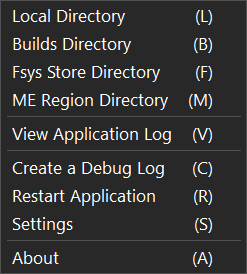
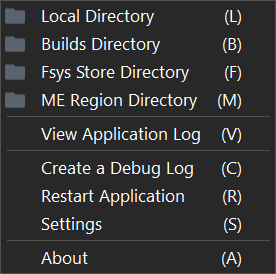
Minor UI changes.

diff --git a/mefit/WinForms/mainWindow.Designer.cs b/mefit/WinForms/mainWindow.Designer.cs
@@ -1398,70 +1398,73 @@ namespace Mac_EFI_Toolkit
             this.toolStripSeparator1,
             this.aboutToolStripMenuItem});
             this.cmsMainMenu.Name = "cmsMainMenu";
-            this.cmsMainMenu.ShowImageMargin = false;
-            this.cmsMainMenu.Size = new System.Drawing.Size(247, 274);
+            this.cmsMainMenu.Size = new System.Drawing.Size(276, 274);
             // 
             // openLocalFolderToolStripMenuItem
             // 
             this.openLocalFolderToolStripMenuItem.ForeColor = System.Drawing.Color.White;
+            this.openLocalFolderToolStripMenuItem.Image = global::Mac_EFI_Toolkit.Properties.Resources.folder;
             this.openLocalFolderToolStripMenuItem.Name = "openLocalFolderToolStripMenuItem";
             this.openLocalFolderToolStripMenuItem.ShortcutKeyDisplayString = "(L)";
-            this.openLocalFolderToolStripMenuItem.Size = new System.Drawing.Size(246, 28);
+            this.openLocalFolderToolStripMenuItem.Size = new System.Drawing.Size(275, 28);
             this.openLocalFolderToolStripMenuItem.Text = "Local Directory";
             this.openLocalFolderToolStripMenuItem.Click += new System.EventHandler(this.openLocalFolderToolStripMenuItem_Click);
             // 
             // openBuildsDirectoryToolStripMenuItem
             // 
             this.openBuildsDirectoryToolStripMenuItem.ForeColor = System.Drawing.Color.White;
+            this.openBuildsDirectoryToolStripMenuItem.Image = global::Mac_EFI_Toolkit.Properties.Resources.folder;
             this.openBuildsDirectoryToolStripMenuItem.Name = "openBuildsDirectoryToolStripMenuItem";
             this.openBuildsDirectoryToolStripMenuItem.ShortcutKeyDisplayString = "(B)";
-            this.openBuildsDirectoryToolStripMenuItem.Size = new System.Drawing.Size(246, 28);
+            this.openBuildsDirectoryToolStripMenuItem.Size = new System.Drawing.Size(275, 28);
             this.openBuildsDirectoryToolStripMenuItem.Text = "Builds Directory";
             this.openBuildsDirectoryToolStripMenuItem.Click += new System.EventHandler(this.openBuildsDirectoryToolStripMenuItem_Click);
             // 
             // openFsysStoresDirectoryToolStripMenuItem
             // 
             this.openFsysStoresDirectoryToolStripMenuItem.ForeColor = System.Drawing.Color.White;
+            this.openFsysStoresDirectoryToolStripMenuItem.Image = global::Mac_EFI_Toolkit.Properties.Resources.folder;
             this.openFsysStoresDirectoryToolStripMenuItem.Name = "openFsysStoresDirectoryToolStripMenuItem";
             this.openFsysStoresDirectoryToolStripMenuItem.ShortcutKeyDisplayString = "(F)";
-            this.openFsysStoresDirectoryToolStripMenuItem.Size = new System.Drawing.Size(246, 28);
+            this.openFsysStoresDirectoryToolStripMenuItem.Size = new System.Drawing.Size(275, 28);
             this.openFsysStoresDirectoryToolStripMenuItem.Text = "Fsys Store Directory";
             this.openFsysStoresDirectoryToolStripMenuItem.Click += new System.EventHandler(this.openFsysDirectoryToolStripMenuItem_Click);
             // 
             // openMeRegionDirectoryToolStripMenuItem
             // 
             this.openMeRegionDirectoryToolStripMenuItem.ForeColor = System.Drawing.Color.White;
+            this.openMeRegionDirectoryToolStripMenuItem.Image = global::Mac_EFI_Toolkit.Properties.Resources.folder;
             this.openMeRegionDirectoryToolStripMenuItem.Name = "openMeRegionDirectoryToolStripMenuItem";
             this.openMeRegionDirectoryToolStripMenuItem.ShortcutKeyDisplayString = "(M)";
-            this.openMeRegionDirectoryToolStripMenuItem.Size = new System.Drawing.Size(246, 28);
+            this.openMeRegionDirectoryToolStripMenuItem.Size = new System.Drawing.Size(275, 28);
             this.openMeRegionDirectoryToolStripMenuItem.Text = "ME Region Directory";
             this.openMeRegionDirectoryToolStripMenuItem.Click += new System.EventHandler(this.openMeRegionDirectoryToolStripMenuItem_Click);
             // 
             // toolStripSeparator4
             // 
             this.toolStripSeparator4.Name = "toolStripSeparator4";
-            this.toolStripSeparator4.Size = new System.Drawing.Size(243, 6);
+            this.toolStripSeparator4.Size = new System.Drawing.Size(272, 6);
             // 
             // viewLogToolStripMenuItem
             // 
             this.viewLogToolStripMenuItem.ForeColor = System.Drawing.Color.White;
             this.viewLogToolStripMenuItem.Name = "viewLogToolStripMenuItem";
             this.viewLogToolStripMenuItem.ShortcutKeyDisplayString = "(V)";
-            this.viewLogToolStripMenuItem.Size = new System.Drawing.Size(246, 28);
+            this.viewLogToolStripMenuItem.Size = new System.Drawing.Size(275, 28);
             this.viewLogToolStripMenuItem.Text = "View Application Log";
             this.viewLogToolStripMenuItem.Click += new System.EventHandler(this.viewLogToolStripMenuItem_Click);
             // 
             // toolStripSeparator2
             // 
             this.toolStripSeparator2.Name = "toolStripSeparator2";
-            this.toolStripSeparator2.Size = new System.Drawing.Size(243, 6);
+            this.toolStripSeparator2.Size = new System.Drawing.Size(272, 6);
             // 
             // createADebugLogToolStripMenuItem
             // 
             this.createADebugLogToolStripMenuItem.ForeColor = System.Drawing.Color.White;
             this.createADebugLogToolStripMenuItem.Name = "createADebugLogToolStripMenuItem";
             this.createADebugLogToolStripMenuItem.ShortcutKeyDisplayString = "(C)";
-            this.createADebugLogToolStripMenuItem.Size = new System.Drawing.Size(246, 28);
+            this.createADebugLogToolStripMenuItem.Size = new System.Drawing.Size(275, 28);
             this.createADebugLogToolStripMenuItem.Text = "Create a Debug Log";
             this.createADebugLogToolStripMenuItem.Click += new System.EventHandler(this.createADebugLogToolStripMenuItem_Click);
             // 
@@ -1470,7 +1473,7 @@ namespace Mac_EFI_Toolkit
             this.restartApplicationToolStripMenuItem.ForeColor = System.Drawing.Color.White;
             this.restartApplicationToolStripMenuItem.Name = "restartApplicationToolStripMenuItem";
             this.restartApplicationToolStripMenuItem.ShortcutKeyDisplayString = "(R)";
-            this.restartApplicationToolStripMenuItem.Size = new System.Drawing.Size(246, 28);
+            this.restartApplicationToolStripMenuItem.Size = new System.Drawing.Size(275, 28);
             this.restartApplicationToolStripMenuItem.Text = "Restart Application";
             this.restartApplicationToolStripMenuItem.Click += new System.EventHandler(this.restartApplicationToolStripMenuItem_Click);
             // 
@@ -1479,14 +1482,14 @@ namespace Mac_EFI_Toolkit
             this.settingsToolStripMenuItem.ForeColor = System.Drawing.Color.White;
             this.settingsToolStripMenuItem.Name = "settingsToolStripMenuItem";
             this.settingsToolStripMenuItem.ShortcutKeyDisplayString = "(S)";
-            this.settingsToolStripMenuItem.Size = new System.Drawing.Size(246, 28);
+            this.settingsToolStripMenuItem.Size = new System.Drawing.Size(275, 28);
             this.settingsToolStripMenuItem.Text = "Settings";
             this.settingsToolStripMenuItem.Click += new System.EventHandler(this.settingsToolStripMenuItem_Click);
             // 
             // toolStripSeparator1
             // 
             this.toolStripSeparator1.Name = "toolStripSeparator1";
-            this.toolStripSeparator1.Size = new System.Drawing.Size(243, 6);
+            this.toolStripSeparator1.Size = new System.Drawing.Size(272, 6);
             // 
             // aboutToolStripMenuItem
             // 
@@ -1495,7 +1498,7 @@ namespace Mac_EFI_Toolkit
             this.aboutToolStripMenuItem.ForeColor = System.Drawing.Color.White;
             this.aboutToolStripMenuItem.Name = "aboutToolStripMenuItem";
             this.aboutToolStripMenuItem.ShortcutKeyDisplayString = "(A)";
-            this.aboutToolStripMenuItem.Size = new System.Drawing.Size(246, 28);
+            this.aboutToolStripMenuItem.Size = new System.Drawing.Size(275, 28);
             this.aboutToolStripMenuItem.Text = "About";
             this.aboutToolStripMenuItem.Click += new System.EventHandler(this.aboutToolStripMenuItem_Click);
             // 
@@ -1575,7 +1578,7 @@ namespace Mac_EFI_Toolkit
             // 
             this.sizeToolStripMenuItem.ForeColor = System.Drawing.Color.White;
             this.sizeToolStripMenuItem.Name = "sizeToolStripMenuItem";
-            this.sizeToolStripMenuItem.Size = new System.Drawing.Size(163, 28);
+            this.sizeToolStripMenuItem.Size = new System.Drawing.Size(185, 28);
             this.sizeToolStripMenuItem.Text = "Size";
             this.sizeToolStripMenuItem.Click += new System.EventHandler(this.sizeToolStripMenuItem_Click);
             // 
@@ -1583,7 +1586,7 @@ namespace Mac_EFI_Toolkit
             // 
             this.crc32ToolStripMenuItem.ForeColor = System.Drawing.Color.White;
             this.crc32ToolStripMenuItem.Name = "crc32ToolStripMenuItem";
-            this.crc32ToolStripMenuItem.Size = new System.Drawing.Size(163, 28);
+            this.crc32ToolStripMenuItem.Size = new System.Drawing.Size(185, 28);
             this.crc32ToolStripMenuItem.Text = "CRC32";
             this.crc32ToolStripMenuItem.Click += new System.EventHandler(this.crc32ToolStripMenuItem_Click);
             // 
@@ -1591,7 +1594,7 @@ namespace Mac_EFI_Toolkit
             // 
             this.createdDateToolStripMenuItem.ForeColor = System.Drawing.Color.White;
             this.createdDateToolStripMenuItem.Name = "createdDateToolStripMenuItem";
-            this.createdDateToolStripMenuItem.Size = new System.Drawing.Size(163, 28);
+            this.createdDateToolStripMenuItem.Size = new System.Drawing.Size(185, 28);
             this.createdDateToolStripMenuItem.Text = "Created Date";
             this.createdDateToolStripMenuItem.Click += new System.EventHandler(this.createdDateToolStripMenuItem_Click);
             // 
@@ -1599,20 +1602,20 @@ namespace Mac_EFI_Toolkit
             // 
             this.modifiedDateToolStripMenuItem.ForeColor = System.Drawing.Color.White;
             this.modifiedDateToolStripMenuItem.Name = "modifiedDateToolStripMenuItem";
-            this.modifiedDateToolStripMenuItem.Size = new System.Drawing.Size(163, 28);
+            this.modifiedDateToolStripMenuItem.Size = new System.Drawing.Size(185, 28);
             this.modifiedDateToolStripMenuItem.Text = "Modified Date";
             this.modifiedDateToolStripMenuItem.Click += new System.EventHandler(this.modifiedDateToolStripMenuItem_Click);
             // 
             // toolStripSeparator5
             // 
             this.toolStripSeparator5.Name = "toolStripSeparator5";
-            this.toolStripSeparator5.Size = new System.Drawing.Size(160, 6);
+            this.toolStripSeparator5.Size = new System.Drawing.Size(182, 6);
             // 
             // serialToolStripMenuItem
             // 
             this.serialToolStripMenuItem.ForeColor = System.Drawing.Color.White;
             this.serialToolStripMenuItem.Name = "serialToolStripMenuItem";
-            this.serialToolStripMenuItem.Size = new System.Drawing.Size(163, 28);
+            this.serialToolStripMenuItem.Size = new System.Drawing.Size(185, 28);
             this.serialToolStripMenuItem.Text = "Serial";
             this.serialToolStripMenuItem.Click += new System.EventHandler(this.serialToolStripMenuItem_Click);
             // 
@@ -1620,7 +1623,7 @@ namespace Mac_EFI_Toolkit
             // 
             this.hwcToolStripMenuItem.ForeColor = System.Drawing.Color.White;
             this.hwcToolStripMenuItem.Name = "hwcToolStripMenuItem";
-            this.hwcToolStripMenuItem.Size = new System.Drawing.Size(163, 28);
+            this.hwcToolStripMenuItem.Size = new System.Drawing.Size(185, 28);
             this.hwcToolStripMenuItem.Text = "HWC";
             this.hwcToolStripMenuItem.Click += new System.EventHandler(this.hwcToolStripMenuItem_Click);
             // 
@@ -1628,7 +1631,7 @@ namespace Mac_EFI_Toolkit
             // 
             this.fsysCRC32ToolStripMenuItem.ForeColor = System.Drawing.Color.White;
             this.fsysCRC32ToolStripMenuItem.Name = "fsysCRC32ToolStripMenuItem";
-            this.fsysCRC32ToolStripMenuItem.Size = new System.Drawing.Size(163, 28);
+            this.fsysCRC32ToolStripMenuItem.Size = new System.Drawing.Size(185, 28);
             this.fsysCRC32ToolStripMenuItem.Text = "Fsys CRC32";
             this.fsysCRC32ToolStripMenuItem.Click += new System.EventHandler(this.fsysCRC32ToolStripMenuItem_Click);
             // 
@@ -1636,7 +1639,7 @@ namespace Mac_EFI_Toolkit
             // 
             this.efiVersionToolStripMenuItem.ForeColor = System.Drawing.Color.White;
             this.efiVersionToolStripMenuItem.Name = "efiVersionToolStripMenuItem";
-            this.efiVersionToolStripMenuItem.Size = new System.Drawing.Size(163, 28);
+            this.efiVersionToolStripMenuItem.Size = new System.Drawing.Size(185, 28);
             this.efiVersionToolStripMenuItem.Text = "EFI Version";
             this.efiVersionToolStripMenuItem.Click += new System.EventHandler(this.efiVersionToolStripMenuItem_Click);
             // 
@@ -1644,7 +1647,7 @@ namespace Mac_EFI_Toolkit
             // 
             this.fitVersionToolStripMenuItem.ForeColor = System.Drawing.Color.White;
             this.fitVersionToolStripMenuItem.Name = "fitVersionToolStripMenuItem";
-            this.fitVersionToolStripMenuItem.Size = new System.Drawing.Size(163, 28);
+            this.fitVersionToolStripMenuItem.Size = new System.Drawing.Size(185, 28);
             this.fitVersionToolStripMenuItem.Text = "FIT Version";
             this.fitVersionToolStripMenuItem.Click += new System.EventHandler(this.fitVersionToolStripMenuItem_Click);
             // 
@@ -1652,7 +1655,7 @@ namespace Mac_EFI_Toolkit
             // 
             this.meVersionToolStripMenuItem.ForeColor = System.Drawing.Color.White;
             this.meVersionToolStripMenuItem.Name = "meVersionToolStripMenuItem";
-            this.meVersionToolStripMenuItem.Size = new System.Drawing.Size(163, 28);
+            this.meVersionToolStripMenuItem.Size = new System.Drawing.Size(185, 28);
             this.meVersionToolStripMenuItem.Text = "ME Version";
             this.meVersionToolStripMenuItem.Click += new System.EventHandler(this.meVersionToolStripMenuItem_Click);
             // 
@@ -1660,7 +1663,7 @@ namespace Mac_EFI_Toolkit
             // 
             this.boardIDToolStripMenuItem.ForeColor = System.Drawing.Color.White;
             this.boardIDToolStripMenuItem.Name = "boardIDToolStripMenuItem";
-            this.boardIDToolStripMenuItem.Size = new System.Drawing.Size(163, 28);
+            this.boardIDToolStripMenuItem.Size = new System.Drawing.Size(185, 28);
             this.boardIDToolStripMenuItem.Text = "Board-ID";
             this.boardIDToolStripMenuItem.Click += new System.EventHandler(this.boardIDToolStripMenuItem_Click);
             // 
@@ -1668,7 +1671,7 @@ namespace Mac_EFI_Toolkit
             // 
             this.orderNoToolStripMenuItem.ForeColor = System.Drawing.Color.White;
             this.orderNoToolStripMenuItem.Name = "orderNoToolStripMenuItem";
-            this.orderNoToolStripMenuItem.Size = new System.Drawing.Size(163, 28);
+            this.orderNoToolStripMenuItem.Size = new System.Drawing.Size(185, 28);
             this.orderNoToolStripMenuItem.Text = "Order No";
             this.orderNoToolStripMenuItem.Click += new System.EventHandler(this.orderNoToolStripMenuItem_Click);
             // 

diff --git a/mefit/WinForms/mainWindow.cs b/mefit/WinForms/mainWindow.cs
@@ -811,9 +811,14 @@ namespace Mac_EFI_Toolkit
         {
             int fileSize = (int)FWBase.FileInfoData.FileLength;
             bool isValidSize = FileUtils.GetIsValidBinSize(fileSize);
+
             lblFileSizeBytes.Text = FileUtils.FormatFileSize(fileSize);
-            lblFileSizeBytes.ForeColor = isValidSize ? Colours.COMPLETE_GREEN : Colours.ERROR_RED;
-            lblFileSizeBytes.Text += isValidSize ? string.Empty : $" ({FileUtils.GetSizeDifference(fileSize)})";
+
+            if (!isValidSize)
+            {
+                lblFileSizeBytes.ForeColor = Colours.ERROR_RED;
+                lblFileSizeBytes.Text += isValidSize ? string.Empty : $" ({FileUtils.GetSizeDifference(fileSize)})";
+            }
         }
 
         private void UpdateFileCrc32Label()
@@ -876,15 +881,13 @@ namespace Mac_EFI_Toolkit
                     lblApfsCapable.ForeColor = Colours.ERROR_RED;
                     break;
                 case ApfsCapable.YesGuid:
-                    lblApfsCapable.Text = "Yes · DXE";
-                    lblApfsCapable.ForeColor = Colours.COMPLETE_GREEN;
+                    lblApfsCapable.Text = "Yes (DXE)";
                     break;
                 case ApfsCapable.YesLzma:
-                    lblApfsCapable.Text = "Yes · LZMA DXE";
-                    lblApfsCapable.ForeColor = Colours.COMPLETE_GREEN;
+                    lblApfsCapable.Text = "Yes (LZMA DXE)";
                     break;
                 case ApfsCapable.No:
-                    lblApfsCapable.Text = "No";
+                    lblApfsCapable.Text = "Driver not Found";
                     lblApfsCapable.ForeColor = Colours.WARNING_ORANGE;
                     break;
             }

diff --git a/mefit/UI/Renderers/METMenuRenderer.cs b/mefit/UI/Renderers/METMenuRenderer.cs
@@ -32,13 +32,12 @@ namespace Mac_EFI_Toolkit.UI.Renderers
             Rectangle rect = new Rectangle(Point.Empty, e.Item.Size);
             Rectangle rectItemBorder = new Rectangle(rect.X + 3, rect.Y + 2, rect.Width - 6, rect.Height - 4);
 
-            Color clr = e.Item.Selected ? ItemHoverColor : Color.Transparent;
-            using (SolidBrush br = new SolidBrush(clr))
+            using (SolidBrush brush = new SolidBrush(e.Item.Selected ? ItemHoverColor : Color.Transparent))
             using (Pen pen = new Pen(BorderColor))
             {
                 if (e.Item.Selected)
                 {
-                    e.Graphics.FillRectangle(br, rectItemBorder);
+                    e.Graphics.FillRectangle(brush, rectItemBorder);
                     e.Graphics.DrawRectangle(pen, rectItemBorder);
                 }
             }

diff --git a/mefit/Properties/Resources.Designer.cs b/mefit/Properties/Resources.Designer.cs
@@ -80,6 +80,16 @@ namespace Mac_EFI_Toolkit.Properties {
         /// <summary>
         ///   Looks up a localized resource of type System.Drawing.Bitmap.
         /// </summary>
+        internal static System.Drawing.Bitmap folder {
+            get {
+                object obj = ResourceManager.GetObject("folder", resourceCulture);
+                return ((System.Drawing.Bitmap)(obj));
+            }
+        }
+        
+        /// <summary>
+        ///   Looks up a localized resource of type System.Drawing.Bitmap.
+        /// </summary>
         internal static System.Drawing.Bitmap imgmuerto64px {
             get {
                 object obj = ResourceManager.GetObject("imgmuerto64px", resourceCulture);

diff --git a/mefit/UI/METContextMenuStrip.cs b/mefit/UI/METContextMenuStrip.cs
@@ -1,4 +1,11 @@
-using Mac_EFI_Toolkit.UI.Renderers;
+// Mac EFI Toolkit
+// https://github.com/MuertoGB/MacEfiToolkit
+
+// UI Components
+// METContextMenuStrip.cs
+// Released under the GNU GLP v3.0
+
+using Mac_EFI_Toolkit.UI.Renderers;
 using System.Windows.Forms;
 
 namespace Mac_EFI_Toolkit.UI

diff --git a/MANUAL.md b/MANUAL.md
@@ -100,7 +100,9 @@ This section displays the name of the loaded file and includes two buttons. Clic
   <img src="files/manual/filesizeinvalid.png">
 </kbd>
 
-The file size of the loaded file is measured in bytes. If the file size is valid, the label will appear green. However, if the file size is invalid, the label will appear red, and any discrepancy in bytes will be calculated and displayed.
+The file size of the loaded file is measured in bytes. If the file size is invalid, the label will appear red, and any discrepancy in bytes will be calculated and displayed.
+
+> 🛈 8,388,615 (>7) would indicate the given file is 7 bytes too large.
 
 ---
 
@@ -180,13 +182,16 @@ This section includes the checksum of the Fsys store and two buttons. If the CRC
 #### APFS Capable:
 
 <kbd>
-  <img src="files/manual/apfs.png">
+  <img src="files/manual/apfsdxe.png">
+</kbd>
+<kbd>
+  <img src="files/manual/apfslzma.png">
 </kbd>
 <kbd>
   <img src="files/manual/apfsno.png">
 </kbd>
 
-Indicates whether the UEFI is capable of supporting APFS and provides information about the detected DXE type, such as LZMA DXE. The presence of LZMA DXE suggests the presence of a compressed DXE file system containing the APFSJumpStart boot time driver.
+The application provides information regarding the presence of the UEFI APFS DXE driver and the firmware's capability to support APFS boot. If the driver is detected, it will display `Yes (DXE)` to indicate that an uncompressed driver was found. If the driver is found within an LZMA compressed volume, it will display `Yes (LZMA DXE)` to indicate that the driver was located in an LZMA compressed volume.
 
 ---
 
